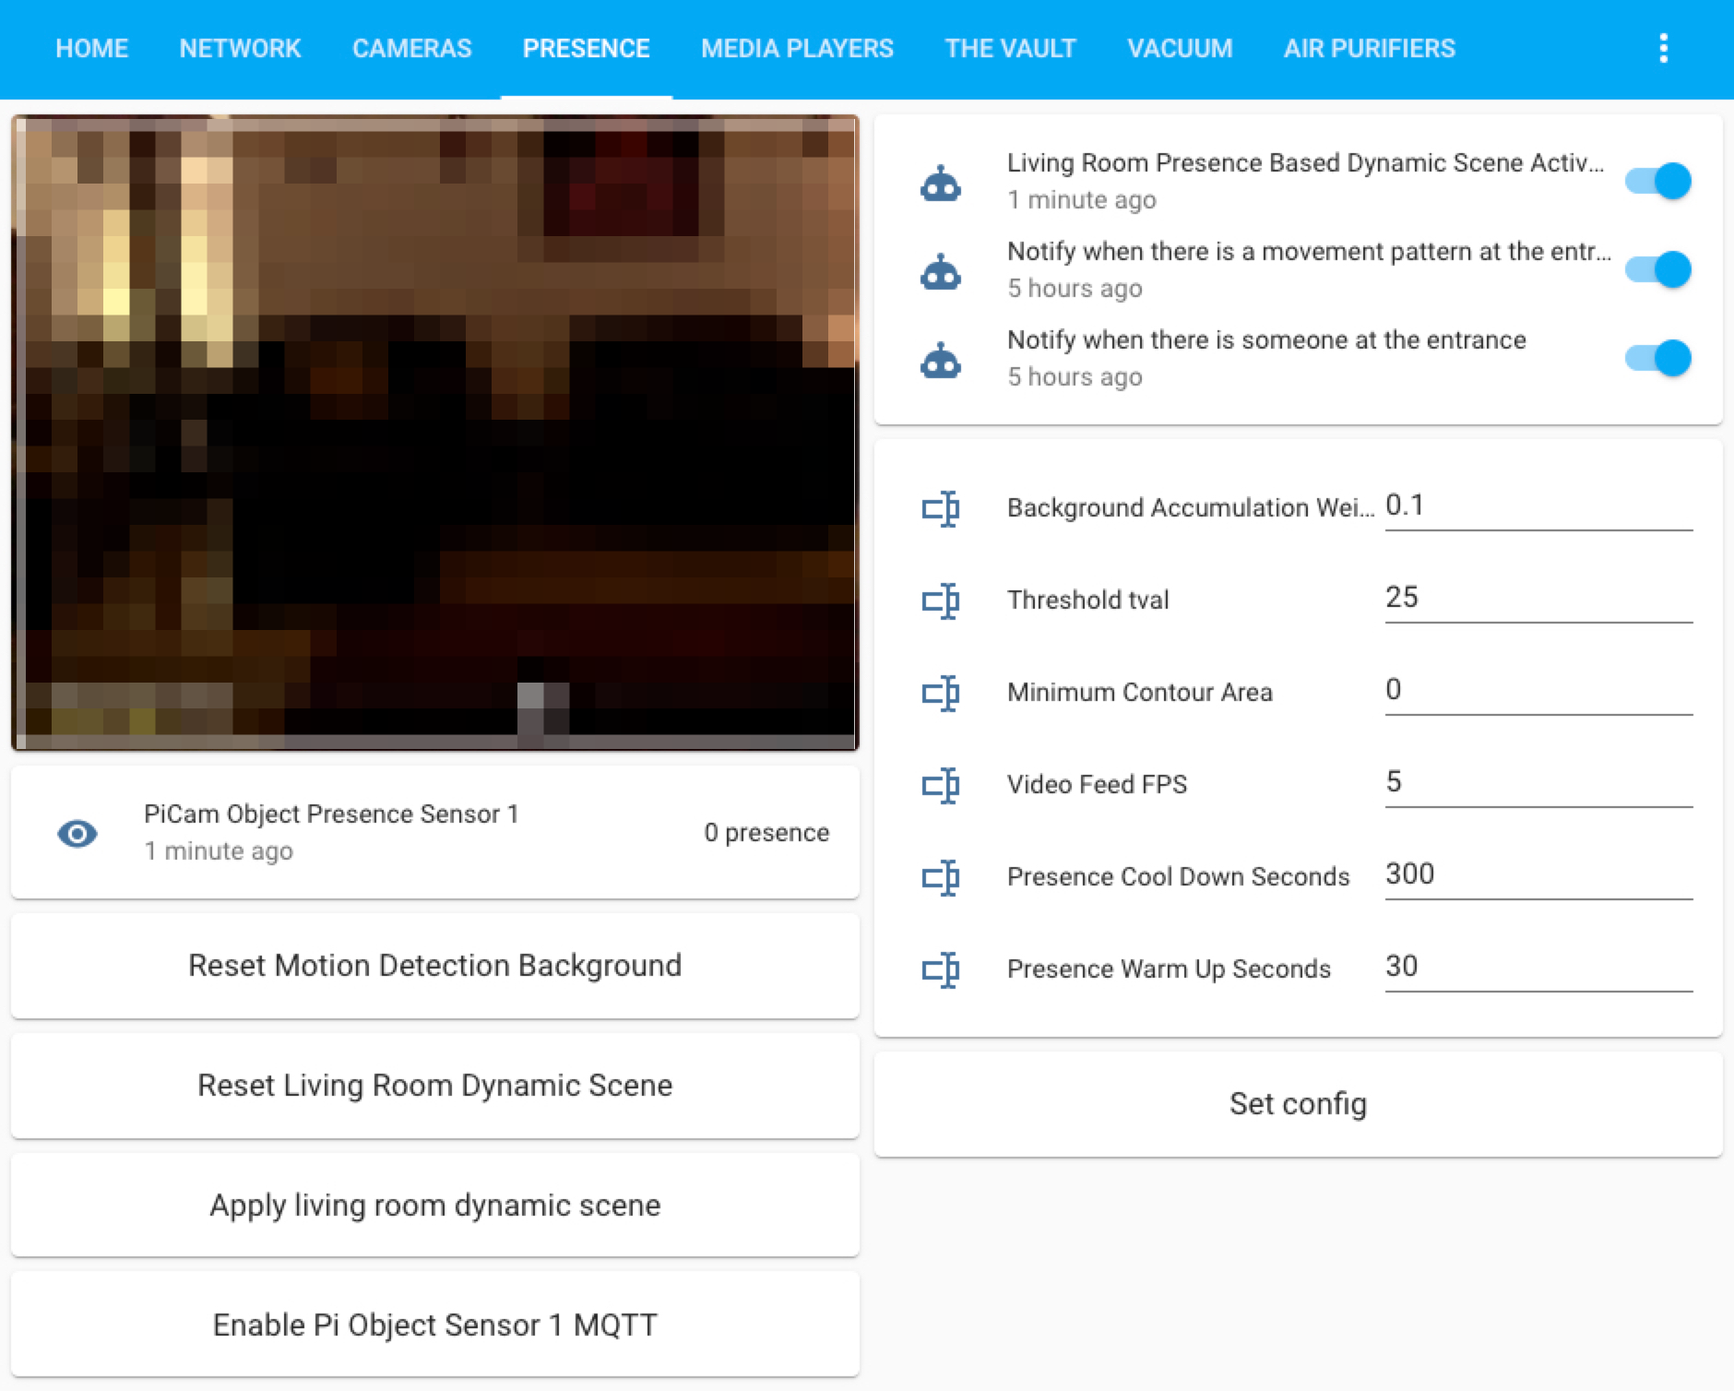
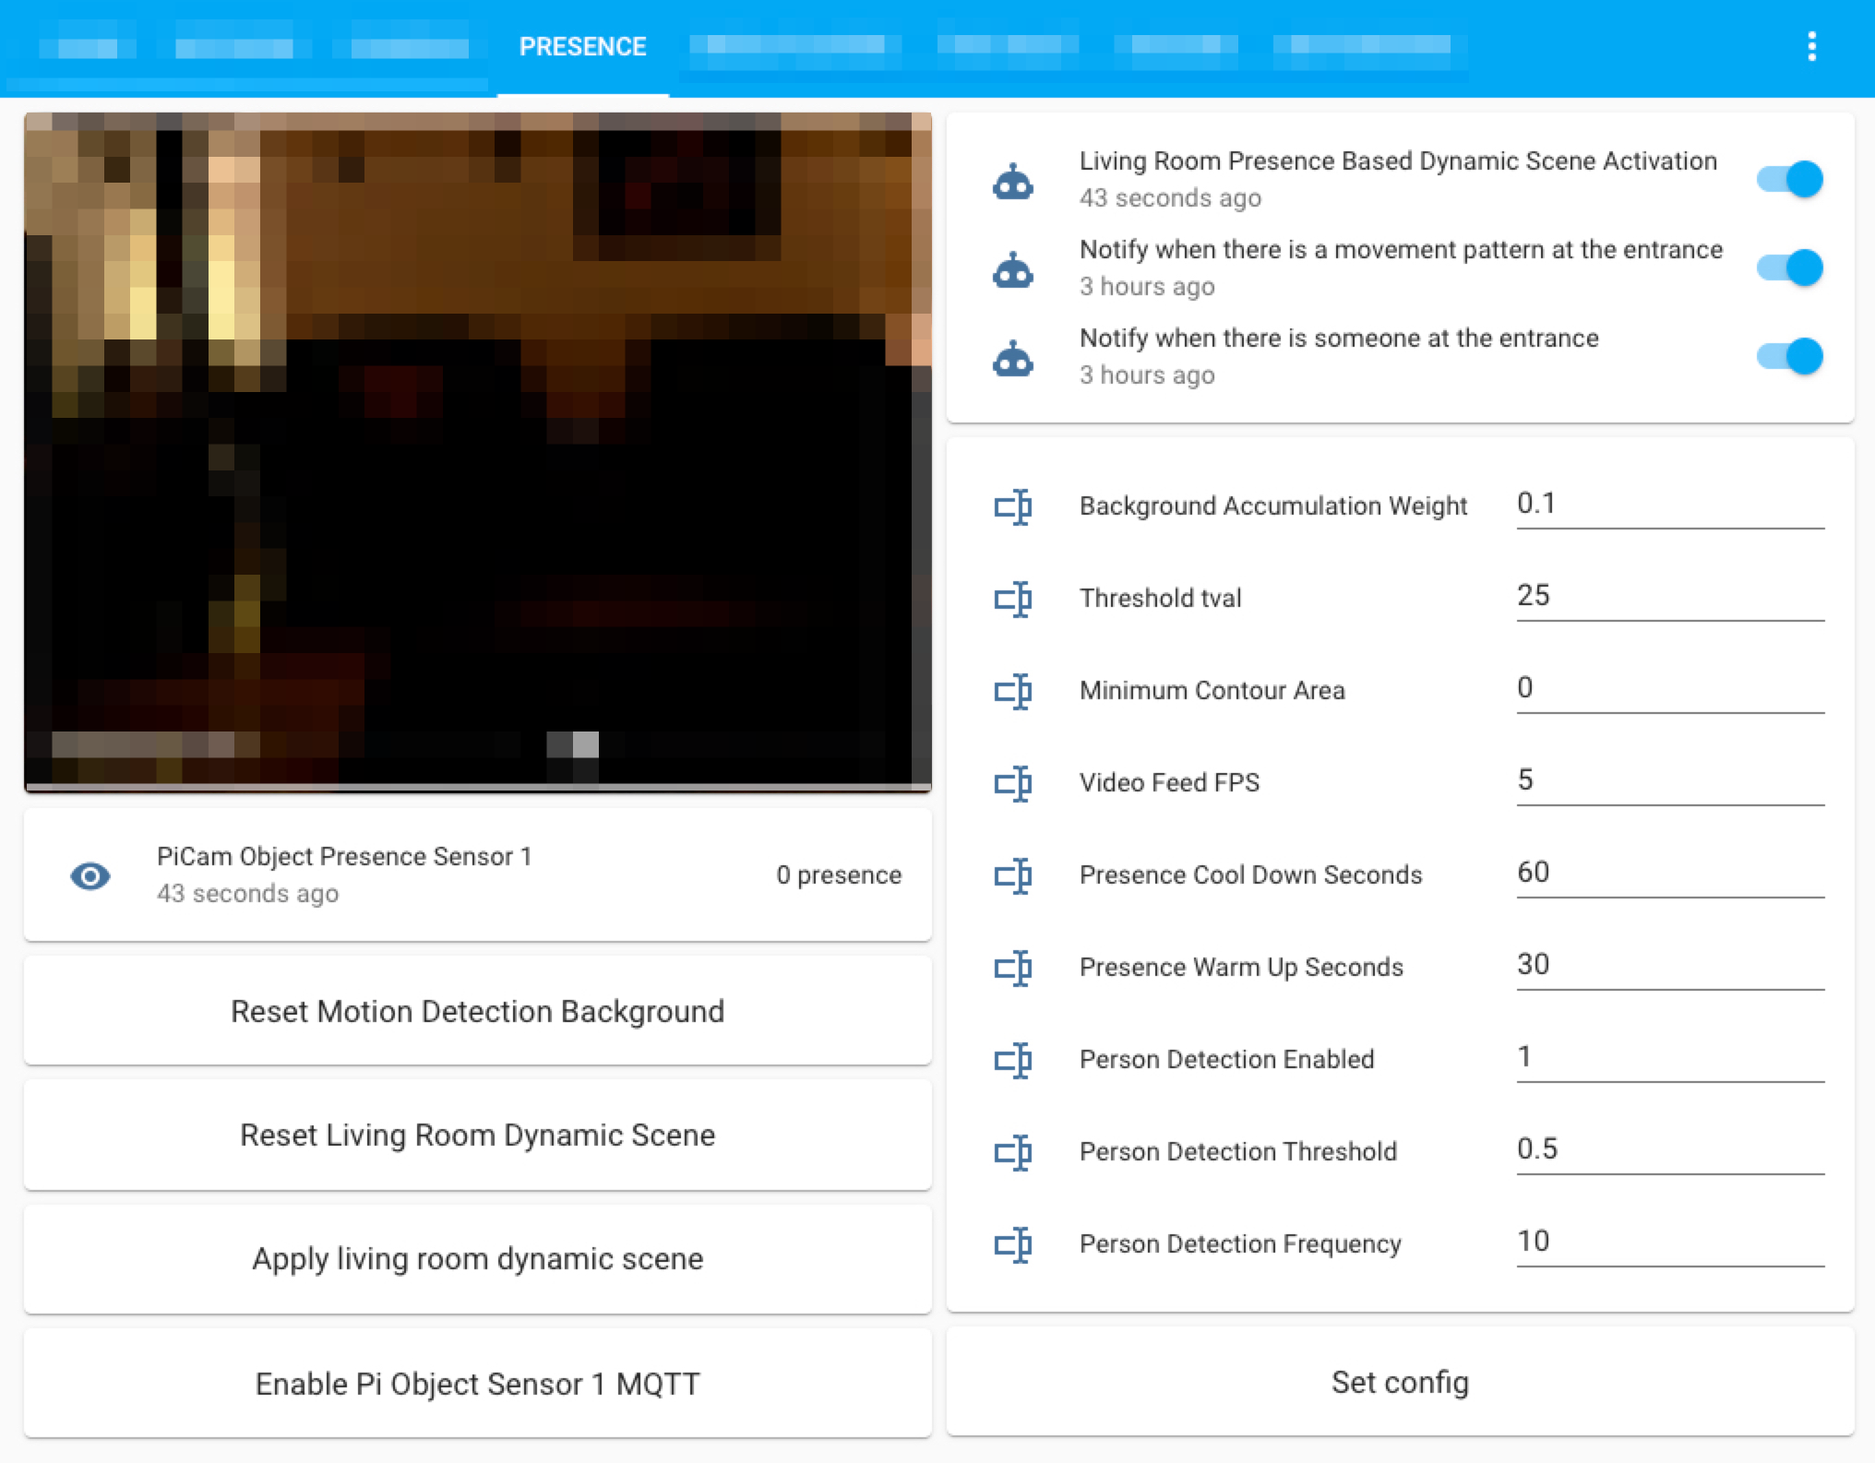
feat: ability to apply negative masks for motion detection feat(#2): docker container and installation instructions feat(#1): disable output frame for privacy feat: write first motion frame for debugging what triggered motion few more bug fixes and minor features

diff --git a/configs/config_example.py b/configs/config_example.py
@@ -1,0 +1,129 @@
+class Config:
+    def __init__(self):
+        # whether to show fps in the output video
+        self.show_fps = True
+
+        # prints the current motion detection fps at this frequency of frames
+        self.fps_print_frames = 10000
+
+        # initial number of frames on startup, to consider for making the "backgroud"
+        # for further motion detection
+        self.md_warmup_frame_count = 100
+
+        # whether to show all smaller motion contours of motion detection
+        self.md_show_all_contours = True
+
+        # whether to merge the foreground frames into the background while capturing
+        # disabling this allow you to consider any objects which appear after the initial
+        # warmup frames to be "motion"
+        # enabling this (default) would keep merging the foreground into the background
+        # and consider only changes to be "motion" - this is more realistic as furniture
+        # can be moved, you can keep a phone or other items in the scene, your lighting
+        # can change and the motion detector won't keep considering them as motion forever
+        self.md_update_bg_model = True
+
+        # to reset the background model - useful to do this as an automation if
+        # you have md_update_bg_model set to False for some reason
+        self.md_reset_bg_model = False
+
+        # the image thresholding value for the motion detector
+        # read about image thresholding in opencv here: https://docs.opencv.org/master/d7/d4d/tutorial_py_thresholding.html
+        self.md_tval = 25
+
+        # the small box of change to consider as motion
+        self.md_min_cont_area = 0
+
+        # enable erode (https://docs.opencv.org/3.4/db/df6/tutorial_erosion_dilatation.html)
+        self.md_enable_erode = False
+
+        # enable dilate (https://docs.opencv.org/3.4/db/df6/tutorial_erosion_dilatation.html)
+        self.md_enable_dilate = True
+        self.md_erode_iterations = 2
+        self.md_dilate_iterations = 2
+
+        # the higher the background accumulation weight the lower the "memory" of the motion detector
+        # for new objects. in other words a higher value will show motion detected for shorter periods
+        # while lower value will show motion detected longer for any new objects that came into the frame
+        # tune this as per the fps of your video stream and speed of objects you are detecting (e.g. a snail vs a person)
+        self.md_bg_accum_weight = 0.1
+
+        # do motion detection only within this mask
+        self.md_mask = None
+
+        # don't do motion detection in this mask
+        self.md_nmask = None
+
+        # minimum size of the box for detected motion (useful for filtering small motion like tiny shadows or curtains moving)
+        self.md_box_threshold_x = 0
+        self.md_box_threshold_y = 0
+
+        # if enabled will write the frame which caused presence to go ON to a file
+        self.md_first_frame_write = True
+
+        # folder where motion frames should be saved. they are saved as timestamped jpegs
+        self.md_first_frame_write_path = "/home/pi/motion_frames"
+
+        # the fps to limit the output video feed to.
+        # not necessary since it is automatically limited to the speed of the motion detector
+        self.video_feed_fps = 5
+
+        # whether to enable MQTT notifications to HA
+        self.send_mqtt = True
+
+        # usual mqtt stuff to connect to HA
+        self.mqtt_host = ''
+        self.mqtt_port = 1883
+        self.mqtt_username = ""
+        self.mqtt_password = ""
+        # keep sending the last motion state every x seconds (in case HA restarted or just didnt
+        # get our message last time
+        self.mqtt_heartbeat_secs = 10
+
+        # topic where presence state changes are sent
+        self.mqtt_state_topic = 'home-assistant/picam-object-presence/sensor1'
+
+        # the number of seconds for the coolDown period
+        # coolDown period: When motion tries to switch presenceStatus from on to off,
+        # we have a coolDown period where the argos object detection service is called
+        # to figure out if there's a person in the scene, and we keep extending the
+        # cool down till a person is detected. This is to avoid false negatives
+        # read more about how argos-presence works in the README
+        self.presence_cooldown_secs = 300
+
+        # the number of seconds for the warmUp period
+        # When motion tries to switch presenceStatus from off to on, we have a warmUp
+        # period where, again we detect if a person is present or not. This is to avoid
+        # false positives. For example, if your presenceStatus recently went from on
+        # to off, your lights are in the process of turning off, which can be seen as
+        # motion by the detector. If we did not have a warmUp period, your room would
+        # keep flipping the lights on and off continuously. Note: this doesmn't meant
+        # you have to wait 30 seconds (warmUp seconds) for your lights to turn on.
+        # During warmup, it terminates the warmup and switches to presenceStatus
+        # ON immediately if a person is detected (and only if…). The warmUp period is
+        # only in effect after a recent change from presence to no presence (from last motion).
+        # The other times whenever you come into the room, argos will go into presence status
+        # immediately (with just motion). You can even turn off warmUp mode by setting
+        # warmUp seconds to 0.
+        self.presence_warmup_secs = 30
+
+        # whether to enable person detection by calling the argos object detection service
+        # if off argos-presence will just rely on the motion detection algorithm for presence
+        self.argos_person_detection_enabled = True
+
+        # the argos object detection API url (could be running on the same or remote host)
+        self.argos_service_api_url = 'http://<argos-host>:8080/detect'
+
+        # the detection threshold to consider a person a person (from 0 to 1)
+        # usually passed to tensorflow (if argos is configured to use tensorflow)
+        self.argos_detection_threshold = 0.5
+
+        # negative mask to apply to image for the object detector
+        self.argos_detection_nmask = (190, 0, 260, 65)
+
+        # this allows throttling the calls to the argos service
+        # do person detections only at this frame frequency
+        self.argos_detection_frequency_frames = 20
+
+        # if you have privacy concerns about your presence camera video/image feed
+        # then you can disable the output frame
+        self.output_frame_enabled = True

diff --git a/presence.py b/presence.py
@@ -126,6 +126,11 @@ class PresenceDetector():
                     self.presence_status = 1
                     self.presence_status_changed = True
                     log.info("presenceStatus: %d" % self.presence_status)
+                    if self.config.md_first_frame_write:
+                        image_path = "%s/motion_frame_%s.jpg" % (
+                        self.config.md_first_frame_write_path, datetime.datetime.now().strftime("%d-%m-%Y-%H-%M-%S"))
+                        cv2.imwrite(image_path,
+                                    frame)
             self.last_motion_ts = datetime.datetime.now()
         else:
             if self.presence_status == 1:
@@ -184,7 +189,9 @@ class PresenceDetector():
             if self.config.show_fps:
                 cv2.putText(frame, "%.2f fps" % fps.fps, (10, frame.shape[0] - 10),
                             cv2.FONT_HERSHEY_SIMPLEX, 0.35, (0, 255, 255), 1)
-            self.outputFrame.enqueue(frame.copy())
+
+            if self.config.output_frame_enabled:
+                self.outputFrame.enqueue(frame.copy())
 
     def generate(self):
         self.active_video_feeds += 1
@@ -235,24 +242,27 @@ class PresenceDetectorView(FlaskView):
     @route('/config')
     def apiconfig(self):
         self.config.show_fps = bool(request.args.get('show_fps', self.config.show_fps))
-        self.config.md_show_all_contours = bool(request.args.get('md_show_all_contours', self.config.md_show_all_contours))
+        self.config.md_show_all_contours = bool(
+            request.args.get('md_show_all_contours', self.config.md_show_all_contours))
         self.config.md_update_bg_model = bool(request.args.get('md_update_bg_model', self.config.md_update_bg_model))
         self.config.md_tval = int(request.args.get('md_tval', self.config.md_tval))
         self.config.md_min_cont_area = int(request.args.get('md_min_cont_area', self.config.md_min_cont_area))
         self.config.md_enable_erode = bool(request.args.get('md_enable_erode', self.config.md_enable_erode))
         self.config.md_enable_dilate = bool(request.args.get('md_enable_dilate', self.config.md_enable_dilate))
         self.config.md_erode_iterations = int(request.args.get('md_erode_iterations', self.config.md_erode_iterations))
-        self.config.md_dilate_iterations = int(request.args.get('md_dilate_iterations', self.config.md_dilate_iterations))
+        self.config.md_dilate_iterations = int(
+            request.args.get('md_dilate_iterations', self.config.md_dilate_iterations))
         self.config.md_bg_accum_weight = float(request.args.get('md_bg_accum_weight', self.config.md_bg_accum_weight))
         self.config.md_reset_bg_model = bool(request.args.get('md_reset_bg_model', self.config.md_reset_bg_model))
         self.config.video_feed_fps = int(request.args.get('video_feed_fps', self.config.video_feed_fps))
         self.config.send_mqtt = bool(request.args.get('send_mqtt', self.config.send_mqtt))
         self.config.fps_print_frames = int(request.args.get('fps_print_frames', self.config.fps_print_frames))
         self.config.mqtt_heartbeat_secs = int(request.args.get('mqtt_heartbeat_secs', self.config.mqtt_heartbeat_secs))
-        self.config.presence_cooldown_secs = int(request.args.get('presence_cooldown_secs', self.config.presence_cooldown_secs))
+        self.config.presence_cooldown_secs = int(
+            request.args.get('presence_cooldown_secs', self.config.presence_cooldown_secs))
         self.config.presence_warmup_secs = int(
             request.args.get('presence_warmup_secs', self.config.presence_warmup_secs))
-        self.config.argos_detection_frequency_frames = int(
+        self.config.argos_person_detection_enabled = int(
             request.args.get('argos_person_detection_enabled', self.config.argos_person_detection_enabled))
         self.config.argos_detection_threshold = float(
             request.args.get('argos_detection_threshold', self.config.argos_detection_threshold))

diff --git a/README.md b/README.md
@@ -1,4 +1,5 @@
 ### Argos Room Presence
+[![docker pulls](https://img.shields.io/docker/pulls/angadsingh/argos-presence.svg)](https://hub.docker.com/r/angadsingh/argos-presence)
 
 This project builds a room presence solution on top of [Argos](https://github.com/angadsingh/argos). Using just a cheap raspberry pi zero w (plus an attached pi camera, or an RTMP enabled camera] in any room, this project provides a reliable, robust and efficient mechanism to detect if people are present in that room or not, allowing you to then use it as an MQTT sensor in [HomeAssistant](http://hass.io/) for automating lighting, media players, heating or what have you in that room, as a consequence.
 
@@ -19,8 +20,8 @@ The executive summary is the following:
 * Argos-presence is detecting movement (even the tiniest finger or facial movement), and then making sure the movement is actually a person when it matters.
 * We dont simply set the `presenceStatus` based on motion. We have `warmUp` and `coolDown` periods.
 * When `motion` tries to switch `presenceStatus` from on to off, we have a `coolDown` period where the argos object detection service is called to figure out if there's a person in the scene, and we keep extending the cool down till a person is detected. This is to avoid **false negatives**
-* When `motion` tries to switch `presenceStatus` from off to on, we have a `warmUp` period where, again we detect if a person is present or not. This is to avoid **false positives**. For example, if your `presenceStatus` recently went from on to off, your lights are in the process of turning off, which can be seen as `motion` by the detector. If we did not have a `warmUp` period, your room would keep flipping the lights on and off continuously. Note: this doesmn't meant you have to wait 30 seconds (warmUp seconds) for your lights to turn on. During warmup, it terminates the warmup and switches to presenceStatus ON immediately if a person is detected (and only if…). The warmUp period is only in effect after a recent change from presence to no presence (from last motion). The other times whenever you come into the room, argos will go into presence status immediately (with just motion). You can even turn off warmUp mode by setting warmUp seconds to 0.
-* The warmup and cooldown periods need to be configured (sensible tried and tested defaults are already set in the [example config](config_example.py)) to accommodate for your environment.
+* When `motion` tries to switch `presenceStatus` from off to on, we have a `warmUp` period where, again we detect if a person is present or not. This is to avoid **false positives**. For example, if your `presenceStatus` recently went from on to off, your lights are in the process of turning off, which can be seen as `motion` by the detector. If we did not have a `warmUp` period, your room would keep flipping the lights on and off continuously. Note: this doesn't mean you have to wait 30 seconds (warmUp seconds) for your lights to turn on. During warmup, it terminates the warmup and switches to presenceStatus ON immediately if a person is detected (and only if…). The warmUp period is only in effect after a recent change from presence to no presence (from last motion). The other times whenever you come into the room, argos will go into presence status immediately (with just motion). You can even turn off warmUp mode by setting warmUp seconds to 0.
+* The warmup and cooldown periods need to be configured (sensible tried and tested defaults are already set in the [example config](configs/config_example.py)) to accommodate for your environment.
 * In effect, your lights (or whatever you choose to turn on in your automation) will turn ON instantly, but they’ll take coolDown seconds (e.g. 5 minutes) to turn off and will ONLY turn off when there’s no computer vision detected human in the frame (so no false negatives - a big principle on which the project was built)
 
 #### Installation
@@ -55,6 +56,42 @@ see the logs
 ```bash
 journalctl --unit argos_presence.service -f
 ```
+
+###### As a docker container
+
+You can use the following instructions to install argos-presence as a docker container.
+
+*Install docker (optional)*
+
+```bash
+curl -fsSL https://get.docker.com -o get-docker.sh
+sudo sh get-docker.sh
+```
+
+*Run argos-presence as a docker container*
+
+```bash
+docker run --rm -p8000:8000 -v configs:/configs \
+						-v /home/pi/motion_frames:/motion_frames angadsingh/argos-presence
+						/usr/src/argos-presence/presence.py --ip 0.0.0.0 --port 8081 \
+						--config configs.your_config --camconfig configs.your_camconfig
+```
+
+make a systemd service to run it automatically. these services automatically download the latest docker image and run them for you:
+
+```bash
+sudo wget https://raw.githubusercontent.com/angadsingh/argos-presence/main/argos_presence_docker.service -P /etc/systemd/system/
+sudo systemctl daemon-reload
+sudo systemctl enable argos_presence_docker.service
+sudo systemctl start argos_presence_docker
+```
+
+see the logs
+
+```bash
+journalctl --unit argos_presence_docker.service -f
+```
+
 
 #### Usage
 
@@ -201,7 +238,7 @@ rest_command:
     url: 'http://<argos-presence-host>:8000/config?reset_bg_model=True'
     timeout: 120
   argos_living_room_sensor_set_config:
-    url: "http://<argos-presence-host>:8000/config?bg_accum_weight={{ states('input_text.argos_presence_sensor_background_accumulation_weight') }}&min_cont_area={{ states('input_text.argos_presence_sensor_minimum_contour_area') }}&tval={{ states('input_text.argos_presence_sensor_tval') }}&video_feed_fps={{ states('input_text.argos_presence_sensor_video_feed_fps') }}&presence_cooldown_secs={{ states('input_text.argos_presence_sensor_presence_cooldown_secs') }}&presence_warmup_secs={{ states('input_text.argos_presence_sensor_presence_warmup_secs') }}"
+    url: "http://<argos-presence-host>:8000/config?bg_accum_weight={{ states('input_text.argos_presence_sensor_background_accumulation_weight') }}&min_cont_area={{ states('input_text.argos_presence_sensor_minimum_contour_area') }}&tval={{ states('input_text.argos_presence_sensor_tval') }}&video_feed_fps={{ states('input_text.argos_presence_sensor_video_feed_fps') }}&presence_cooldown_secs={{ states('input_text.argos_presence_sensor_presence_cooldown_secs') }}&presence_warmup_secs={{ states('input_text.argos_presence_sensor_presence_warmup_secs') }}&argos_person_detection_enabled={{ states('input_text.argos_presence_sensor_person_detection_enabled') }}&argos_detection_threshold={{ states('input_text.argos_presence_sensor_person_detection_threshold') }}&argos_detection_frequency_frames={{ states('input_text.argos_presence_sensor_person_detection_frequency_frames') }}"
     timeout: 120
   argos_living_room_sensor_set_camconfig:
     url: "http://<argos-presence-host>:8000/camconfig?exposure_mode={{exposure_mode}}&framerate={{framerate}}&iso={{iso}}&image_denoise={{image_denoise}}&video_denoise={{video_denoise}}&video_stabilization={{video_stabilization}}&shutter_speed={{shutter_speed}}&meter_mode={{meter_mode}}&exposure_compensation={{exposure_compensation}}&awb_mode={{awb_mode}}&awb_gains_red={{awb_gains_red}}&awb_gains_blue={{awb_gains_blue}}"
@@ -262,3 +299,13 @@ type: picture-glance
 here's how my presence tab looks like in lovelace:
 
 ![argos-presence-tab-ha](argos-presence-tab-ha.png)
+
+#### Privacy
+
+If you have privacy concerns about your presence camera video/image feed entering the network (and an attacker potentially getting access to it), then you can set the following config settings to completely disable the output frame
+
+```python
+self.output_frame_enabled = True
+```
+
+You may also want to install the argos object detector locally.
